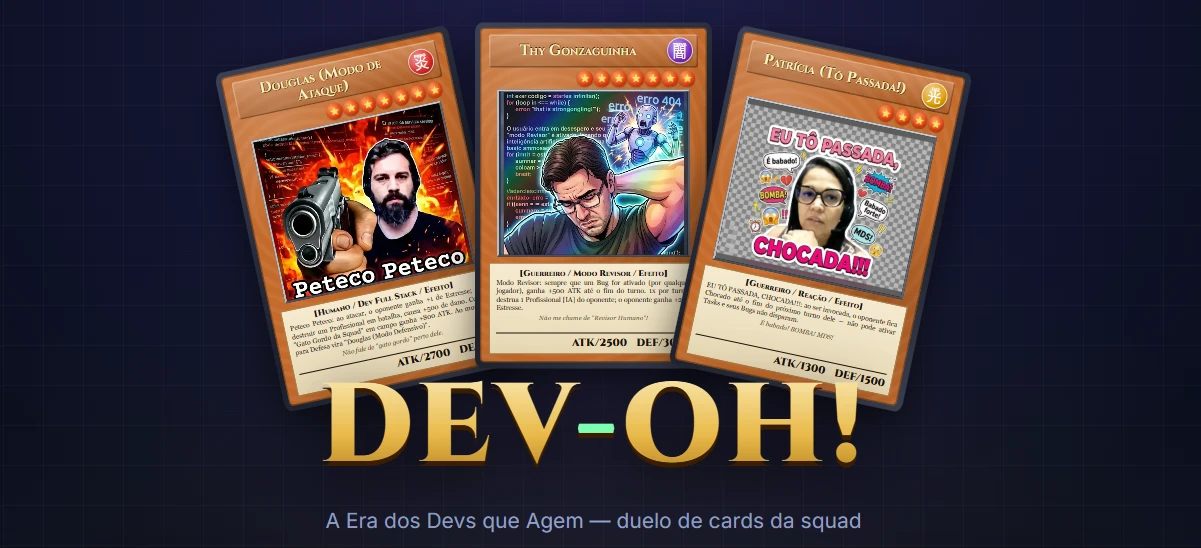
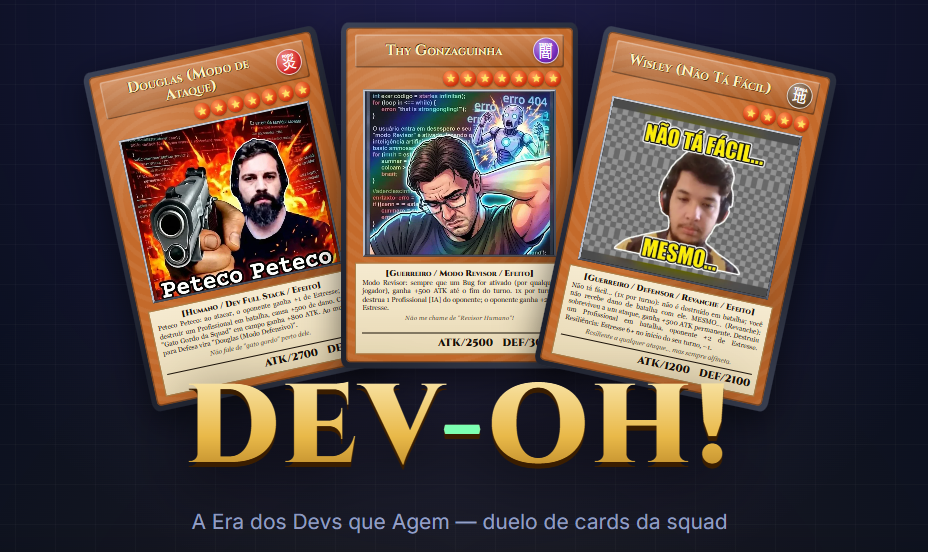
style: show Wisley instead of Patrícia in the home hero and README cover

diff --git a/apps/web/src/screens/Home.tsx b/apps/web/src/screens/Home.tsx
@@ -5,7 +5,7 @@ import type { Screen } from '../App';
 import { CardFull } from '../components/Card';
 import { allDecks, currentDeck, getBotLevel, getName, getSession, setBotLevel, setDeckId, setName } from '../storage';
 
-const HERO = ['douglas_ataque', 'thy_revisor', 'patricia'];
+const HERO = ['douglas_ataque', 'thy_revisor', 'wisley'];
 
 const LEVELS: { id: BotLevel; icon: string; title: string; tag: string; desc: string }[] = [
   { id: 'normal', icon: '🤖', title: 'Com IA', tag: 'Normal', desc: 'O bot aceita a primeira sugestão do autocomplete.' },

diff --git a/README.md b/README.md
@@ -1,6 +1,6 @@
 <div align="center">
 
-<img src="docs/hero.webp" alt="DEV-OH! A Era dos Devs que Agem — Douglas (Modo de Ataque), Thy Gonzaguinha e Patrícia" width="760" />
+<img src="docs/hero.webp" alt="DEV-OH! A Era dos Devs que Agem — Douglas (Modo de Ataque), Thy Gonzaguinha e Wisley" width="760" />
 
 **O duelo de cards em que a sua squad é o deck.**<br/>
 Invoque os devs, ative Tasks, arme Bugs e entregue a Sprint antes que o servidor caia.
